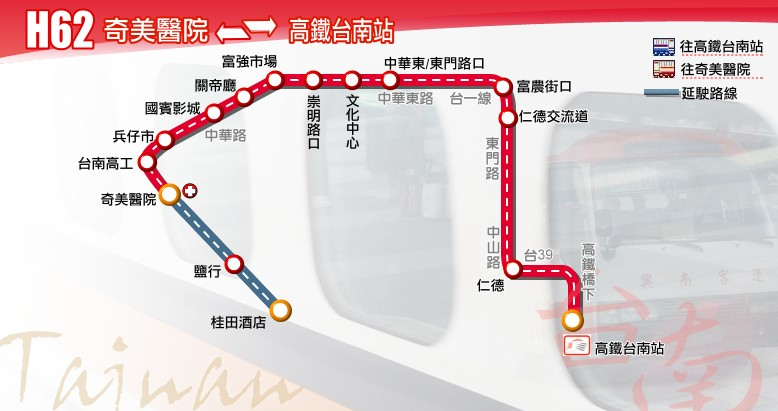
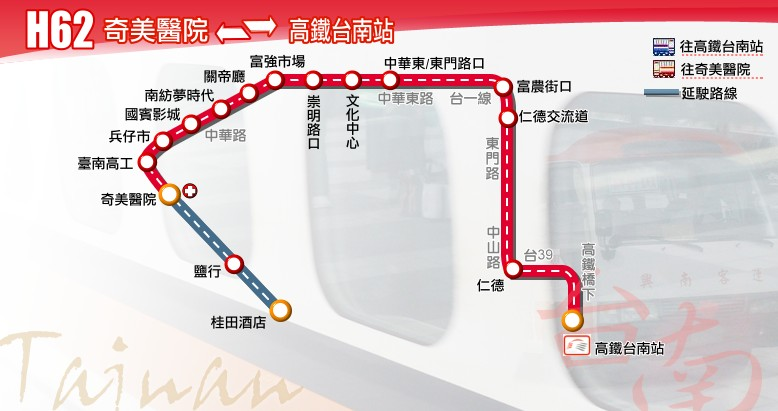
Add new line 19; Modify time schedule in 20, 21; update:h62,99

Changed region(s): [[0.1234, 0.1168, 0.401, 0.3796], [0.0925, 0.3796, 0.1234, 0.4088]]

diff --git a/route/fare_and_time/city_bus_20.js b/route/fare_and_time/city_bus_20.js
@@ -1,16 +1,14 @@
 // format = [time at the start stop] or
 // [time, other] or
 // [time, start_stop, end_stop, other]
-city_bus_20_main_stop_name = ["崑山科大","永大夜市","永康<br />火車站","台南應用<br />科技大學","臺灣歷史<br />博物館","安南醫院","塭南里"];
-city_bus_20_main_stop_time_consume = [0, 7, 15, 25, 36, 40, 46];
-city_bus_20_important_stop = [0, 2, 4]; // 崑山科大, 永康火車站, 臺灣歷史博物館
-city_bus_20_time_go = [["06:00"],["06:20"],["06:40"],["07:00"],["07:20"],["07:40"],["08:00"],["08:30"],
-["09:00"],["09:30"],["10:00"],["10:30"],["11:00"],["11:30"],["12:00"],["12:30"],["13:00"],["13:30"],
-["14:00"],["14:30"],["15:00"],["15:30"],["16:00"],["16:30"],["16:50"],["17:20"],["17:40"],["18:00"],
-["18:30"],["19:00"],["19:30"],["20:00"],["20:30"],["21:00"],["21:30"],["22:00"]
+city_bus_20_main_stop_name = ["南紡<br />夢時代","崑山科大","永大夜市","永康<br />火車站","台南應用<br />科技大學","臺灣歷史<br />博物館","安南醫院","塭南里"];
+city_bus_20_main_stop_time_consume = [0, 10, 17, 25, 35, 46, 50, 55];
+city_bus_20_important_stop = [0, 3, 5]; // 南紡夢時代, 永康火車站, 臺灣歷史博物館
+city_bus_20_time_go = [["06:00"],["06:20"],["06:40"],["07:10"],["07:40"],["08:00"],["08:30"],["09:00"],["09:45"],["10:30"],
+["11:00"],["11:30"],["12:00"],["12:45"],["13:30"],["14:00"],["14:30"],["15:00"],["15:45"],["16:30"],["16:50"],["17:20"],
+["17:40"],["18:15"],["19:00"],["19:30"],["20:00"],["20:30"],["21:15"],["22:00"]
 ];
-city_bus_20_time_return = [["05:54"],["06:14"],["06:34"],["06:54"],["07:14"],["07:34"],["07:54"],["08:24"],
-["08:54"],["09:24"],["09:54"],["10:24"],["10:54"],["11:24"],["11:54"],["12:24"],["12:54"],["13:24"],
-["13:54"],["14:24"],["14:54"],["15:24"],["15:54"],["16:14"],["16:34"],["17:04"],["17:34"],["18:04"],
-["18:34"],["18:54"],["19:24"],["19:54"],["20:24"],["20:54"],["21:24"],["21:54"]
+city_bus_20_time_return = [["05:55"],["06:25"],["06:55"],["07:15"],["07:35"],["08:10"],["08:55"],["09:15"],["09:45"],
+["10:15"],["10:55"],["11:35"],["12:15"],["12:45"],["13:15"],["13:55"],["14:35"],["15:15"],["15:45"],["16:15"],["17:00"],
+["17:35"],["18:05"],["18:35"],["18:55"],["19:40"],["20:25"],["20:55"],["21:25"],["21:55"]
 ];

diff --git a/route/fare_and_time/city_bus_21.js b/route/fare_and_time/city_bus_21.js
@@ -4,13 +4,11 @@
 city_bus_21_main_stop_name = ["臺南<br />火車站","臺南公園<br />(公園路)","西門路<br />四段","六甲頂","南台<br />科技大學","鹽行","仁愛街","蔦松","永康工業區<br />服務中心"];
 city_bus_21_main_stop_time_consume = [0, 5, 9, 15, 18, 27, 30, 35, 40];
 city_bus_21_important_stop = [0, 5, 8]; // 臺南火車站, 鹽行, 永康工業區
-city_bus_21_time_go = [["06:00"],["06:20"],["06:35"],["07:00"],["07:30"],["07:55"],["08:15"],["08:30"],["08:50"],["09:20"],
-["09:55"],["10:30"],["11:00"],["11:30"],["12:00"],["12:25"],["13:00"],["13:35"],["14:00"],["14:30"],["15:05"],["15:35"],
-["16:00"],["16:30"],["17:00"],["17:25"],["17:50"],["18:10"],["18:35"],["19:05"],["19:30"],["20:00"],["20:35"],["21:00"],
-["21:30"],["22:00"]
+city_bus_21_time_go = [["06:00"],["06:25"],["06:50"],["07:20"],["07:55"],["08:25"],["08:50"],["09:20"],["09:55"],["10:30"],
+["11:15"],["12:00"],["12:25"],["13:00"],["13:35"],["14:15"],["15:05"],["15:35"],["16:00"],["16:30"],["17:15"],["17:50"],
+["18:10"],["18:35"],["19:05"],["19:45"],["20:35"],["21:00"],["21:30"],["22:00"]
 ];
-city_bus_21_time_return = [["06:00"],["06:20"],["06:40"],["07:00"],["07:20"],["07:40"],["08:00"],["08:30"],["09:00"],
-["09:30"],["10:00"],["10:30"],["11:00"],["11:30"],["12:00"],["12:30"],["13:00"],["13:30"],["14:00"],["14:30"],["15:00"],
-["15:30"],["16:00"],["16:20"],["16:45"],["17:10"],["17:40"],["18:15"],["18:40"],["19:10"],["19:30"],["20:00"],["20:30"],
-["21:00"],["21:30"],["22:00"]
+city_bus_21_time_return = [["06:00"],["06:20"],["06:40"],["07:10"],["07:40"],["08:00"],["08:30"],["09:00"],["09:45"],["10:30"],
+["11:00"],["11:30"],["12:00"],["12:45"],["13:30"],["14:00"],["14:30"],["15:00"],["15:45"],["16:20"],["16:45"],["17:10"],
+["17:40"],["18:25"],["19:10"],["19:30"],["20:00"],["20:30"],["21:15"],["22:00"]
 ];

diff --git a/route/fare_and_time/city_bus_19.js b/route/fare_and_time/city_bus_19.js
@@ -1,0 +1,22 @@
+// format = [time at the start stop] or
+// [time, other] or
+// [time, start_stop, end_stop, other]
+city_bus_19_main_stop_name = ["原住民<br />文化會館","億載金城","市政中心<br />(永華路)","林百貨<br />(中正路)","臺南<br />火車站","崑山科大","大灣高中"];
+city_bus_19_main_stop_time_consume = [0, 5, 17, 25, 30, 50, 60];
+city_bus_19_important_stop = [0, 4, 6]; // 原住民文化會館, 臺南火車站, 大灣高中
+start_idx = 4;
+end_idx = 6;
+end_idx2 = 0;
+city_bus_19_time_go = [["05:50",start_idx,end_idx,[[end_idx-1,-5,end_idx,-5]]],["06:00",start_idx,end_idx,[[end_idx,-5]]],
+["06:10",start_idx,end_idx],["06:20"],["06:40",[[2,-2,3,-3]]],["07:10"],["07:55",[[2,-2,3,-3]]],["08:40",[[2,-2,3,-3]]],
+["09:25",[[2,-2,3,-3]]],["10:10"],["10:55",[[2,-2,3,-3]]],["11:40"],["12:25",[[2,3,3,2]]],["13:10",[[2,-2,3,-3]]],["13:55"],
+["14:40",[[2,-2,3,-3]]],["15:15",[[2,-2,3,-3]]],["16:00",[[2,-2,3,-3]]],["16:45"],["17:25"],["17:50",[[2,3,3,2]]],
+["18:25",[[2,-2,3,-3]]],["18:55"],["19:40",[[2,-2,3,-3]]],["20:25",[[2,-2,3,-3]]],["21:10",[[2,-2,3,-3]]],
+["21:30",end_idx2,start_idx],["22:00",[[2,-2,3,-3]]],["22:20",end_idx2,start_idx],["22:55",end_idx2,start_idx]
+];
+city_bus_19_time_return = [["06:00",start_idx,end_idx2,[[2,-3,1,-5,0,-2]]],["06:10",start_idx,end_idx2],
+["06:40",start_idx,end_idx2],["06:10"],["06:25"],["06:40"],["07:40"],["08:40"],["09:30",[[start_idx,-5]]],["10:15"],["11:00"],
+["11:45"],["12:20",[[start_idx,-5]]],["13:05"],["13:50",[[start_idx,-5]]],["14:35"],["15:20"],["16:00",[[start_idx,5]]],
+["16:30",[[start_idx,5]]],["17:10"],["17:35"],["18:10"],["18:55",[[start_idx,5]]],["19:40"],["20:25"],["21:10"],
+["21:30",end_idx,start_idx],["22:00",[[start_idx,-5]]],["22:20",end_idx,start_idx],["22:55",end_idx,start_idx]
+];

diff --git a/hsr_shuttle/hsr_shuttle_h62.html b/hsr_shuttle/hsr_shuttle_h62.html
@@ -17,8 +17,7 @@
 <body>
 <script type="text/javascript">
 	block_header();
-	block_route_map(null,'<p align="left">1. 因崇明路進行路面翻修，自即日起至施工完成實施交通管制，於管制時段本路線「高鐵接駁車H62奇美線」路線如下：原路線－中華東路三段－東門路－崇學路－崇善路－中華東路三段－原路線。<br />高鐵奇美線不停靠「崇明路口」及「文化中心」兩招呼站，請乘客至附近招呼站搭乘。</p>\
-		<p align="left">2. 本路線高鐵快捷公車「高鐵台南站－奇美醫院」將自12/25(四)起新增「南紡夢時代」站。<br />● 奇美醫院往高鐵(上客)：南紡夢時代中華東路側<br />● 高鐵往奇美醫院(下客)：台南市東區中華東路一段193號前，站點地圖請參閱<a href="http://snnew.sg1010.myweb.hinet.net/1031212-1.pdf" target="_blank">附件</a>。</p>');
+	block_route_map(null,'因崇明路進行路面翻修，自即日起至施工完成實施交通管制，於管制時段本路線「高鐵接駁車H62奇美線」路線如下：原路線－中華東路三段－東門路－崇學路－崇善路－中華東路三段－原路線。高鐵奇美線不停靠「崇明路口」及「文化中心」兩招呼站，請乘客至附近招呼站搭乘。');
 	block_route_info(route_interval,'興南客運','15~30分一班','免費','http://2384.tainan.gov.tw:8080/AGPSRemoteQuery3/ajaxBus.jsp?pathId=10265&locale=zh_TW');
 	document.write('<div id="wrapper3">\
 	<a name="fare"></a>\

diff --git a/city_bus/city_bus_20.html b/city_bus/city_bus_20.html
@@ -7,7 +7,7 @@
 	route_name_en = 'No.20';
 	route_file_name = 'city_bus_20';
 	route_type = 'city_bus';
-	route_interval = ['崑山科大','永大路','安南醫院'];
+	route_interval = ['南紡夢時代','永大路','安南醫院'];
 </script>
 <script src="../tools/web_model.js"></script> 
 <script type="text/javascript">
@@ -18,9 +18,9 @@
 <script type="text/javascript">
 	block_header();
 	block_route_map('https://mapsengine.google.com/map/edit?mid=zT0XIOZRtlhg.k7U0sQhq2PSo');
-	block_route_info(route_interval,'府城客運','尖20離30','一段票','http://2384.tainan.gov.tw:8080/AGPSRemoteQuery3/ajaxBus.jsp?pathId=10020&locale=zh_TW');
+	block_route_info(route_interval,'府城客運','尖20離40','一段票','http://2384.tainan.gov.tw:8080/AGPSRemoteQuery3/ajaxBus.jsp?pathId=10020&locale=zh_TW');
 	block_fare(1, null);
-	block_time_schedule('崑山科大','安南醫院','');
+	block_time_schedule('南紡夢時代','安南醫院','');
 	block_transfer(transfer_kun_shan_university + transfer_yongkang_railway_station + transfer_yanhang + transfer_taiwan_history_museum + transfer_annan_hospital);
 	block_copyright();
 </script>

diff --git a/city_bus/city_bus_19.html b/city_bus/city_bus_19.html
@@ -1,0 +1,28 @@
+<!DOCTYPE html PUBLIC "-//W3C//DTD XHTML 1.0 Strict//EN" "http://www.w3.org/TR/xhtml1/DTD/xhtml1-strict.dtd">
+<html xmlns="http://www.w3.org/1999/xhtml">
+<head>
+<meta http-equiv="Content-Type" content="text/html; charset=utf-8" />
+<script type="text/javascript">
+	route_name = '19路';
+	route_name_en = 'No.19';
+	route_file_name = 'city_bus_19';
+	route_type = 'city_bus';
+	route_interval = ['安平','大灣'];
+</script>
+<script src="../tools/web_model.js"></script> 
+<script type="text/javascript">
+	header_code();
+</script>
+</head>
+<body>
+<script type="text/javascript">
+	block_header();
+	block_route_map(null,'2014/12/25-2015/01/24 開通首月免費搭乘');
+	block_route_info(route_interval,'府城客運','尖20離45','一段票','http://2384.tainan.gov.tw:8080/AGPSRemoteQuery3/ajaxBus.jsp?pathId=10019&locale=zh_TW');
+	block_fare(1, null);
+	block_time_schedule('安平','大灣','');
+	block_transfer(transfer_tainan_railway_station + transfer_kun_shan_university );
+	block_copyright();
+</script>
+</body>
+</html>

diff --git a/tools/web_model.js b/tools/web_model.js
@@ -101,7 +101,7 @@ function block_route_info(route_interval, company_name, density, charging_method
 		<div class="content">\
 			<table border="0">\
 				<tr>\
-					<td>起訖點</td>\
+					<td>起迄點</td>\
 					<td>');
 	for(item in route_interval){
 		document.write(route_interval[item]);
@@ -186,7 +186,7 @@ function block_fare(section_type, section_point){
 				</tr>\
 			</table>');
 	}
-	else if(section_type==2){ // charge by two section
+	else if(section_type==2 || section_type==22){ // charge by two section
 		document.write('<h1>兩段票收費</h1>\
 			<h2><u>分段點：' + section_point + '</u></h2><br />\
 			<table>\
@@ -196,7 +196,10 @@ function block_fare(section_type, section_point){
 				</tr>\
 				<tr>\
 					<td><b>投現</b></td>\
-					<td>30</td><td>18</td>\
+					<td>');
+		if(section_type==2) document.write('30');
+		else document.write('36'); // doubling
+		document.write('</td><td>18</td>\
 				</tr>\
 				<tr>\
 					<td><b>電子票證</b></td>\

diff --git a/city_bus/index.html b/city_bus/index.html
@@ -29,7 +29,7 @@
 		<tr><td><a href="city_bus_3.html" class="city_busButton">3</a></td><td>'+ city_bus_3_route +'</td>\
 			<td><a href="city_bus_18.html" class="city_busButton">18</a></td><td>'+ city_bus_18_route +'</td></tr>\
 		<tr><td><a href="city_bus_5.html" class="city_busButton">5</a></td><td>'+ city_bus_5_route +'</td>\
-			<td><a href="javascript: alert(\'即將於12/25上路\')" class="city_busButton">19</a></td><td>'+ city_bus_19_route +'</td></tr>\
+			<td><a href="city_bus_19.html" class="city_busButton">19</a></td><td>'+ city_bus_19_route +'</td></tr>\
 		<tr><td><a href="city_bus_6.html" class="city_busButton">6</a></td><td>'+ city_bus_6_route +'</td>\
 			<td><a href="city_bus_20.html" class="city_busButton">20</a></td><td>'+ city_bus_20_route +'</td></tr>\
 		<tr><td><a href="city_bus_7.html" class="city_busButton">7</a></td><td>'+ city_bus_7_route +'</td>\

diff --git a/city_bus/city_bus_21.html b/city_bus/city_bus_21.html
@@ -18,7 +18,7 @@
 <script type="text/javascript">
 	block_header();
 	block_route_map(null);
-	block_route_info(route_interval,'府城客運','尖20離30','一段票','http://2384.tainan.gov.tw:8080/AGPSRemoteQuery3/ajaxBus.jsp?pathId=10021&locale=zh_TW');
+	block_route_info(route_interval,'府城客運','尖20離45','一段票','http://2384.tainan.gov.tw:8080/AGPSRemoteQuery3/ajaxBus.jsp?pathId=10021&locale=zh_TW');
 	block_fare(1, null);
 	block_time_schedule('臺南火車站','永康工業區','');
 	block_transfer(transfer_tainan_railway_station + transfer_yanhang);

diff --git a/tour_bus/tour_bus_99.html b/tour_bus/tour_bus_99.html
@@ -28,7 +28,7 @@
 		<div class="content">\
 			<table border="0">\
 				<tr>\
-					<td>起訖點</td>\
+					<td>起迄點</td>\
 					<td>臺南公園 ─ 四草 ─ 七股鹽山</td>\
 				</tr>\
 				<tr>\
@@ -62,7 +62,7 @@
 		</div>\
 	</div>\
 </div>');
-	block_fare(2, '四草野生動物保護區');
+	block_fare(22, '四草野生動物保護區');
 	document.write('<div id="timetable">\
 	<a name="time"></a>\
 	<div class="title">\
